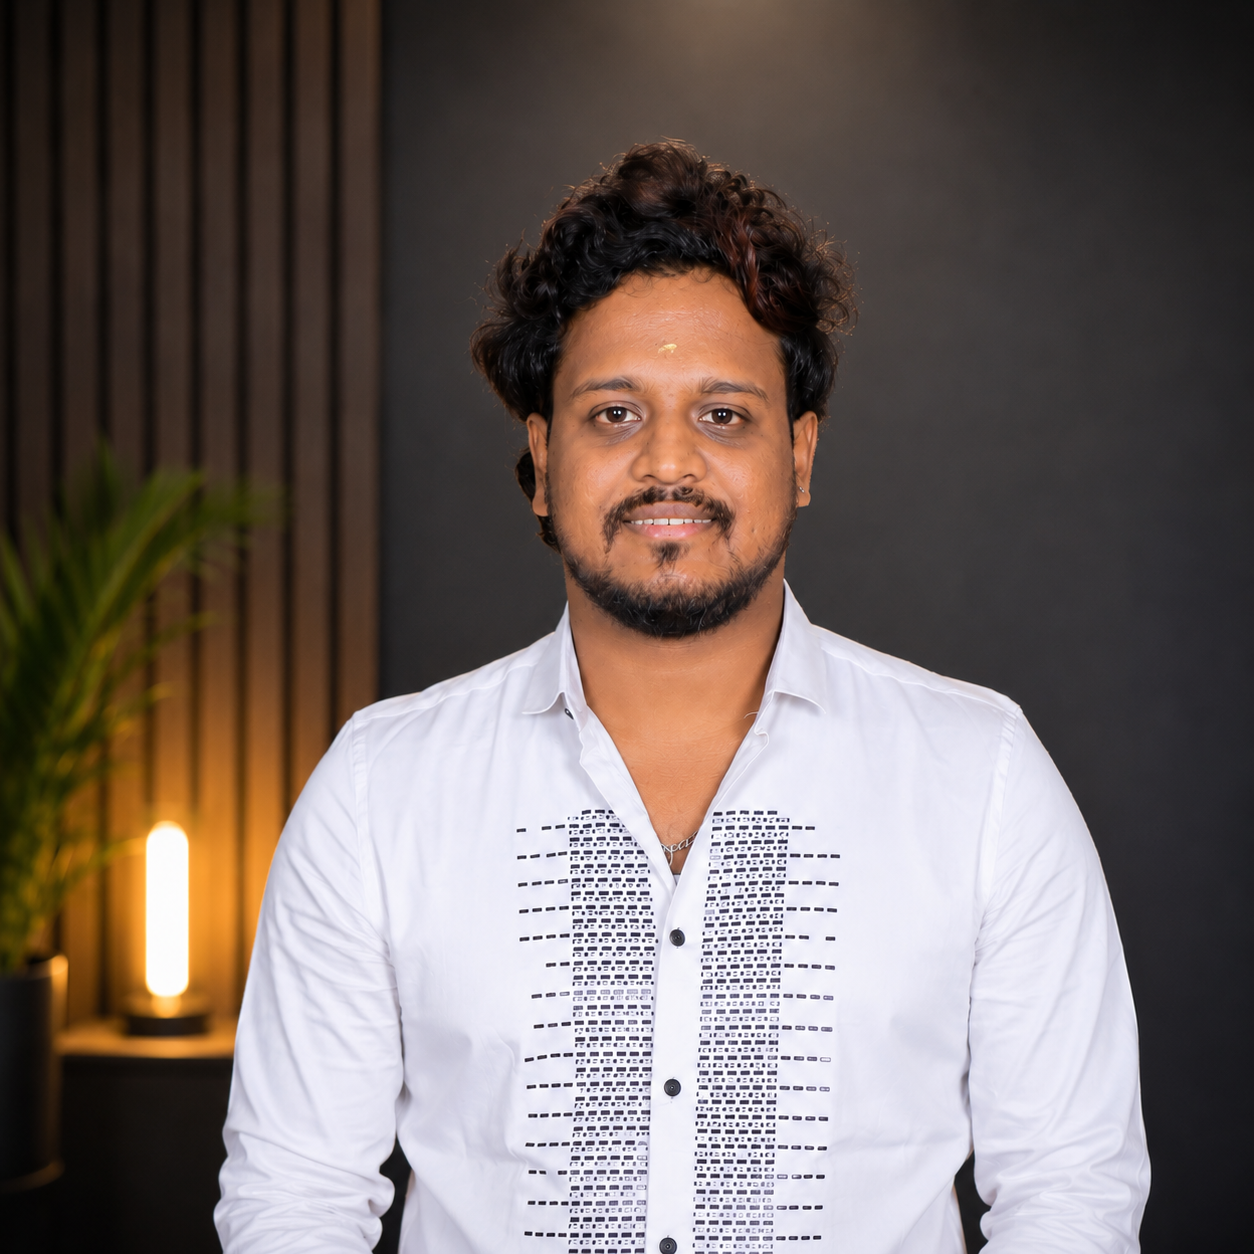
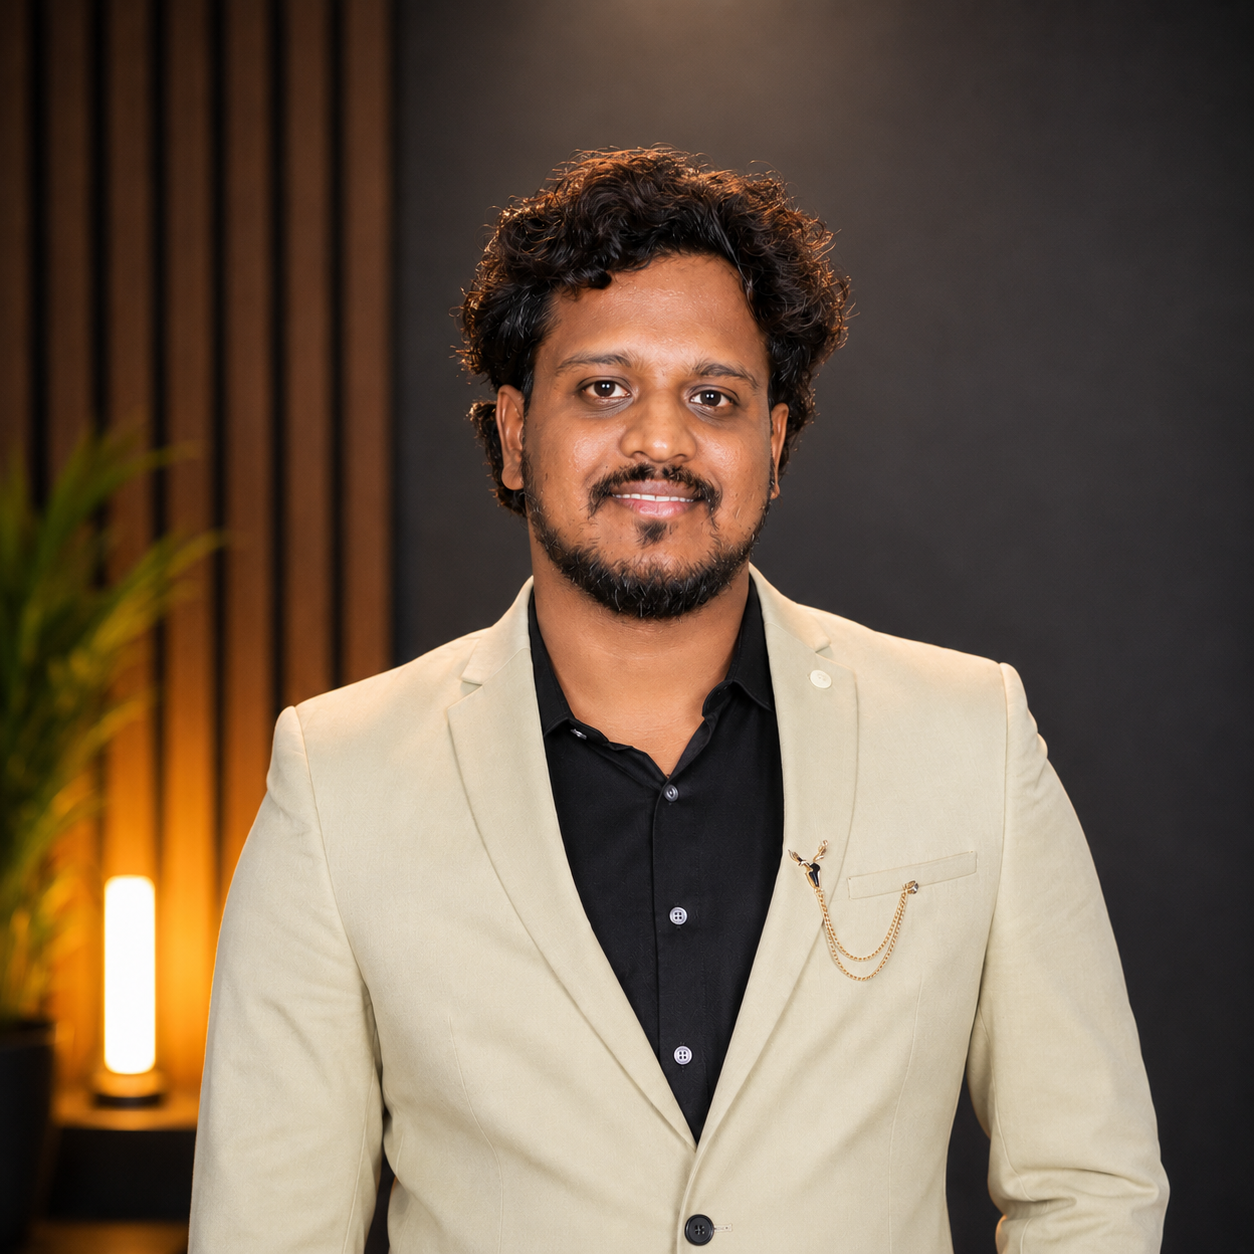
feat(UI) : Updated the resume column and the portflio image

diff --git a/index.html b/index.html
@@ -252,7 +252,7 @@
     <section id="resume" aria-labelledby="resume-title">
       <header>
         <p>Resume</p>
-        <h2 id="resume-title">Download the resume for a deeper view of delivery experience and role alignment.</h2>
+        <h3 id="resume-title">Download the resume for a deeper view of delivery experience and role alignment.</h3>
       </header>
       <p>For recruiters evaluating enterprise data engineering, ETL modernization, or Azure-focused data platform roles, the resume provides a direct view of delivery scope, technical depth, and production-facing ownership.</p>
       <p>